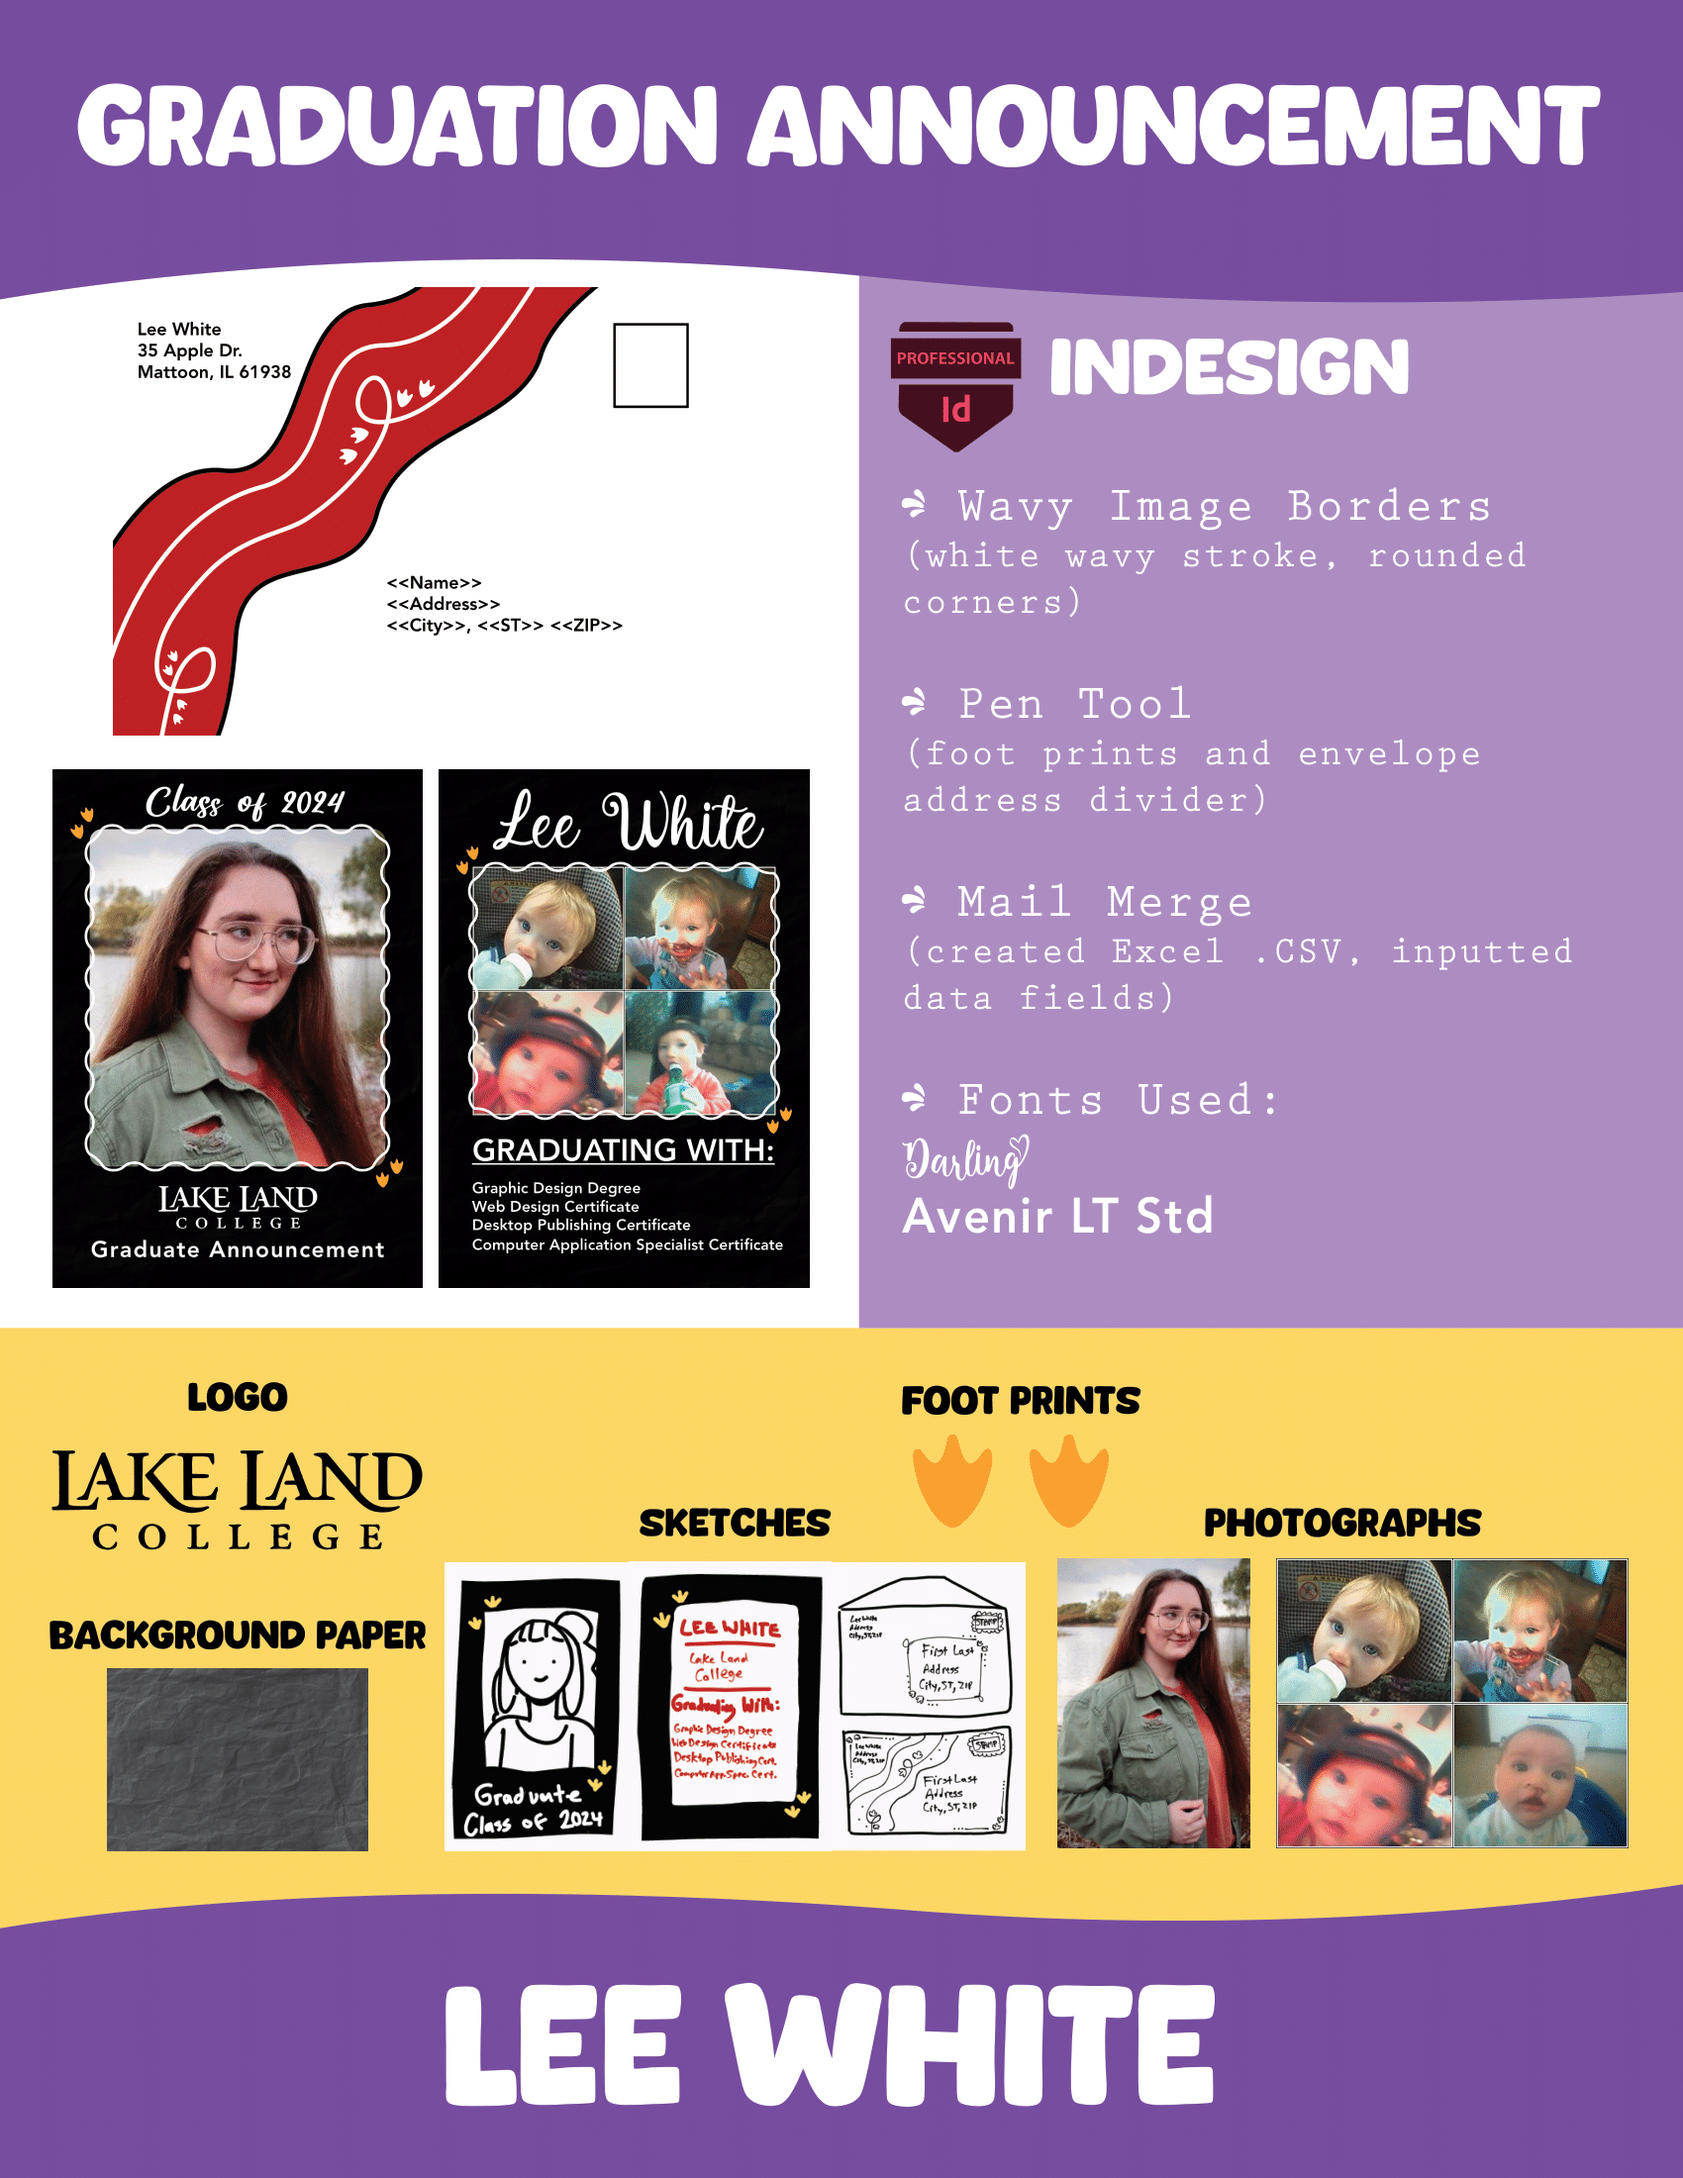
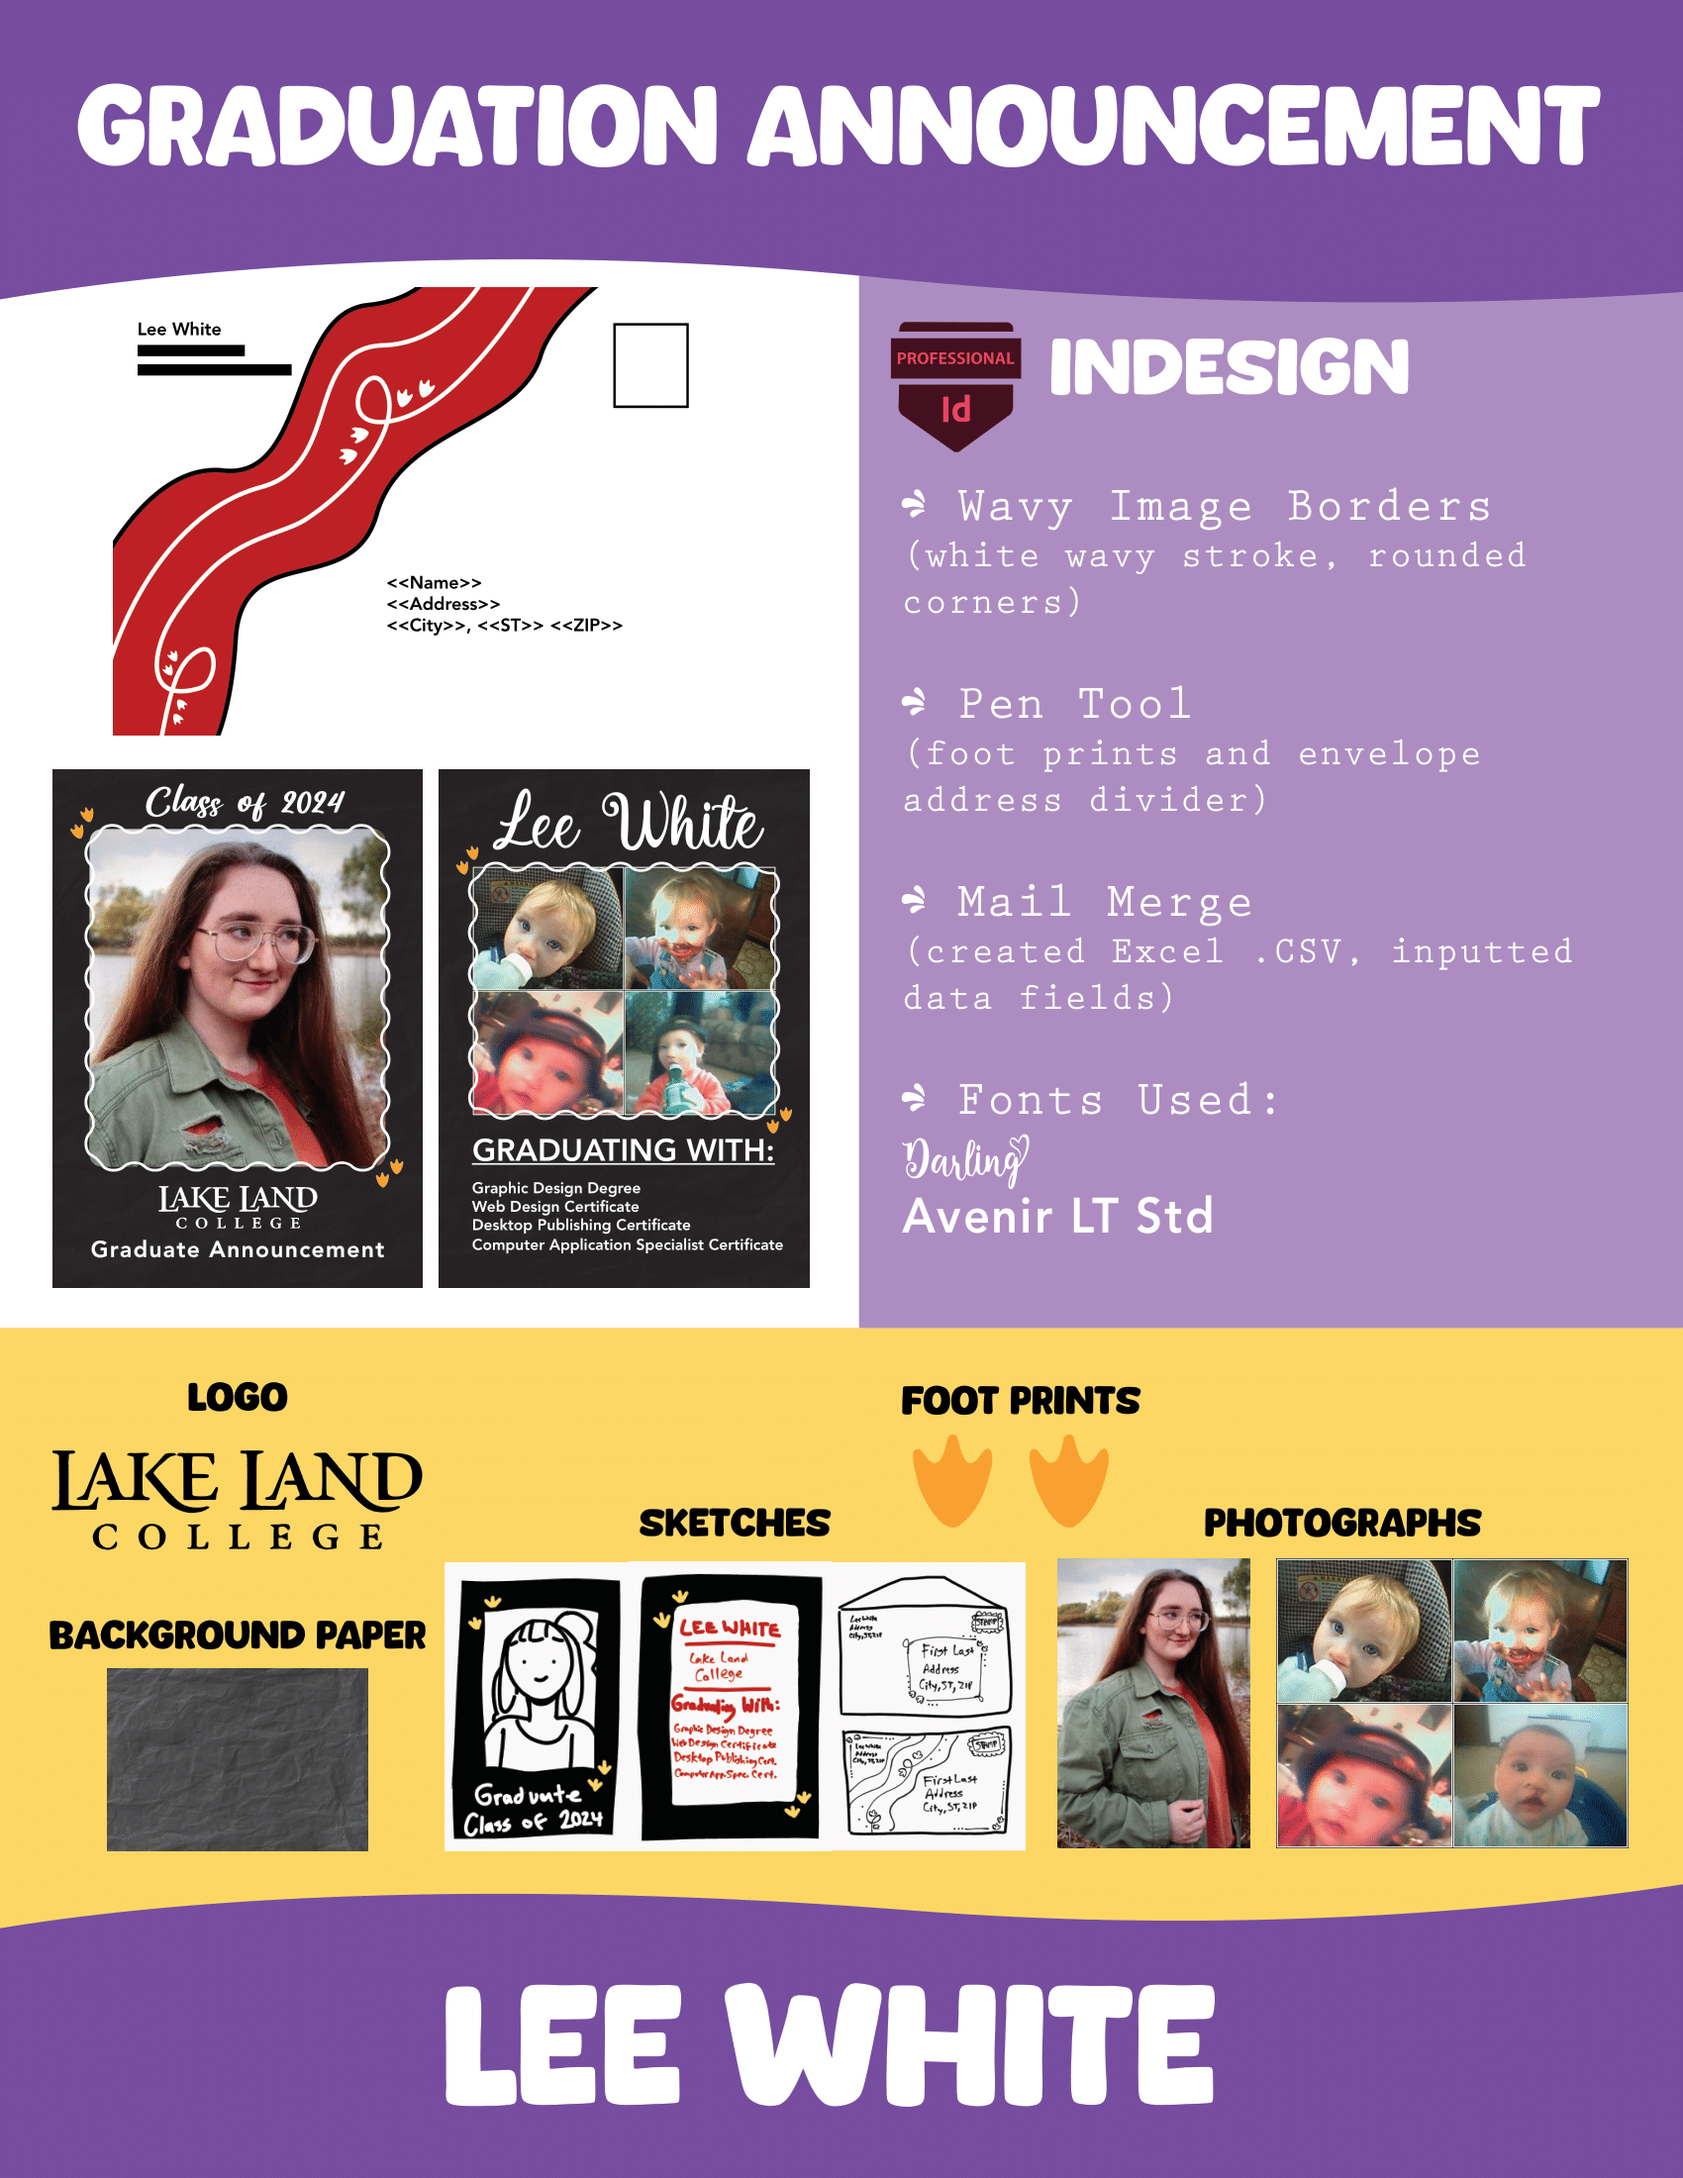
updating typo and removing my address from tech sheet

diff --git a/samples.html b/samples.html
@@ -30,6 +30,10 @@
       <img src="pagetitle/WS.png" class="nav-logo" />
       <!-- <h1><a name="top"></a><img src="image/web-logo.png" class="nav-logo" />Work Samples<img src="image/web-logo-2.png" class="nav-logo" /></h1> -->
       <h3 name="top">Project Navigator</h3> <br>
+      <div class="center">
+      <p>The projects shown below are organized by various Adobe programs. They were made between <b>2022-2024</b>.</p>
+        <p>Feel free to open and close the sections as well as clicking on images to single them out!</p>
+      </div>
       <!--Techniques-->
       <button type="button" class="collapsible">Technique Sheets</button>
       <div class="sample-item">
@@ -118,7 +122,7 @@
       <div class="sample-item">
         <br>
         <div class="center link">
-          <a href="projects/paper-form-1.png" data-lightbox="jw"><img src="projects/paper-form-1.png" alt="" class="img-line-2" /></a>
+          <a href="projects/updated-4.27.24-JW-Invoice-1.png" data-lightbox="jw"><img src="projects/updated-4.27.24-JW-Invoice-1.png" alt="" class="img-line-2" /></a>
           <a href="projects/digital-form-1.png" data-lightbox="jw"><img src="projects/digital-form-1.png" alt="" class="img-line-2" /></a>
           <a href="projects/scholarship-interactive-1.png" data-lightbox="llc-scholarship"><img src="projects/scholarship-interactive-1.png" alt="" class="img-line-2" /></a>
           <a href="projects/filled-scholarship-interactive-1.png" data-lightbox="llc-scholarship"><img src="projects/filled-scholarship-interactive-1.png" alt="" class="img-line-2" /></a>

diff --git a/art.html b/art.html
@@ -30,6 +30,10 @@
       <img src="pagetitle/PA.png" class="nav-logo" />
       <!-- <h1><a name="top"></a><img src="image/web-logo.png" class="nav-logo" />Personal Art<img src="image/web-logo-2.png" class="nav-logo" /></h1> -->
       <h3 name="top">Art Navigator</h3> <br>
+      <div class="center">
+      <p>The art shown below is organized by various programs: MSPaint, Canvas, Photoshop, Medibang, and Other. They were drawn between <b>2018-2024</b>.</p>
+        <p>Feel free to open and close the sections as well as clicking on images to single them out!</p>
+      </div>
       <!--Paint-->
       <button type="button" class="collapsible">Microsoft Paint</button>
       <div class="sample-item">

diff --git a/style.css b/style.css
@@ -48,6 +48,7 @@ nav p {
   padding-top: 0px;
   background-color: #dfb8ea;}
 
+b {color: #9579be;}
 /*affects all links:*/
 a {
   color: black;
